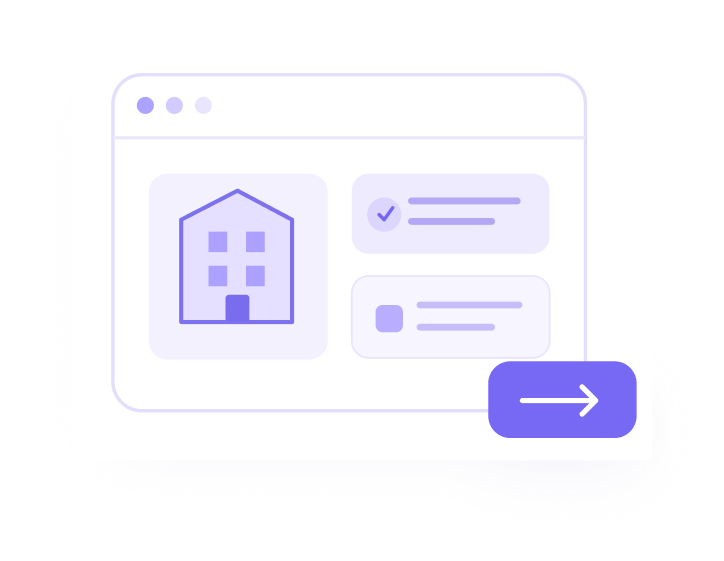
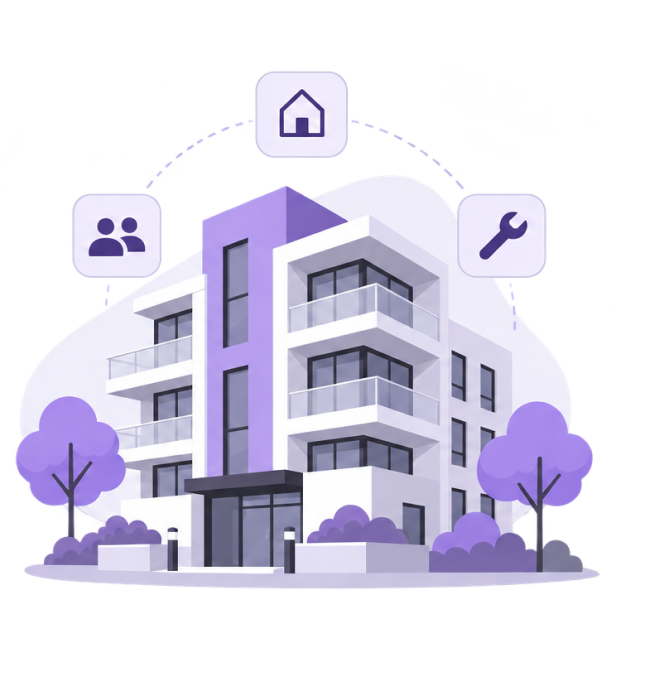
feat:home page section and product section

diff --git a/src/routes/home/-components/LandingFooter.tsx b/src/routes/home/-components/LandingFooter.tsx
@@ -1,34 +1,101 @@
+import { useState } from "react";
 import { Link } from "@tanstack/react-router";
+import { ArrowRight } from "lucide-react";
+import { toast } from "sonner";
 
 export default function LandingFooter() {
-  return (
-    <footer className="border-t border-slate-100 bg-white py-8 sm:py-10">
-      <div className="mx-auto flex max-w-7xl flex-col sm:flex-row items-center justify-between gap-4 px-4 sm:px-6 lg:px-8">
-        {/* Brand/Logo */}
-        <Link to="/" className="flex items-center gap-1">
-          <span className="text-xl font-black tracking-tight text-slate-900">
-            KINOVIA<span className="text-[#5958ed]">.</span>
-          </span>
-        </Link>
-        <p className="mx-auto text-base-content/60 font-semibold">
-          @copyright2026
-        </p>
+  const [email, setEmail] = useState("");
 
-        {/* Links */}
-        <nav className="flex items-center gap-6  sm: font-medium text-slate-600">
-          <a href="#" className="hover:text-slate-950 transition-colors">
-            Home
-          </a>
-          <a
-            href="/home/faq"
-            className="hover:text-slate-950 transition-colors"
-          >
-            FAQs
-          </a>
-          <a href="#support" className="hover:text-slate-950 transition-colors">
-            Contact Us
-          </a>
-        </nav>
+  const handleSubscribe = (e: React.FormEvent) => {
+    e.preventDefault();
+    if (!email.trim()) {
+      toast.error("Please enter your email address.");
+      return;
+    }
+    toast.info("Thanks for your interest — newsletter signup isn't connected yet.");
+    setEmail("");
+  };
+
+  return (
+    <footer className="border-t border-slate-100 bg-white py-12 sm:py-16">
+      <div className="mx-auto max-w-7xl px-4 sm:px-6 lg:px-8">
+        <div className="grid gap-10 lg:grid-cols-2 lg:gap-16">
+          {/* Brand / intro */}
+          <div>
+            <Link to="/" className="inline-flex items-center gap-1">
+              <span className="text-xl font-black tracking-tight text-slate-900">
+                <span className="text-[#5958ed]">K</span>INOVIA
+                <span className="text-[#5958ed]">.</span>
+              </span>
+            </Link>
+            <p className="mt-5 max-w-xs text-sm leading-relaxed text-slate-500">
+              Business solutions for better customer relationships, connected
+              operations, and digital commerce.
+            </p>
+          </div>
+
+          {/* Newsletter */}
+          <div>
+            <h2 className="text-xl font-semibold text-slate-900">
+              Stay in the loop.
+            </h2>
+            <p className="mt-2 text-sm text-slate-500">
+              Get occasional product news and updates from KINOVIA.
+            </p>
+            <form
+              onSubmit={handleSubscribe}
+              className="mt-5 flex flex-col gap-3 sm:flex-row"
+            >
+              <input
+                type="email"
+                required
+                value={email}
+                onChange={(e) => setEmail(e.target.value)}
+                placeholder="Enter your email address"
+                aria-label="Email address"
+                className="input input-bordered h-12 w-full flex-1 rounded-xl border-slate-200 bg-slate-50 px-4 text-sm text-slate-900 placeholder:text-slate-400 focus:border-[#5958ed] focus:bg-white"
+              />
+              <button
+                type="submit"
+                className="btn h-12 shrink-0 gap-2 rounded-xl border-0 bg-[#5958ed] px-6 text-sm font-semibold text-white shadow-sm shadow-[#5958ed]/25 hover:bg-[#4b4ad4]"
+              >
+                Subscribe
+                <ArrowRight className="size-4" />
+              </button>
+            </form>
+          </div>
+        </div>
+
+        <div className="my-10 border-t border-slate-200" />
+
+        <div className="flex flex-col gap-4 sm:flex-row sm:items-center sm:justify-between">
+          <nav className="flex flex-wrap items-center gap-6 text-sm font-medium text-slate-600">
+            <Link to="/" className="hover:text-slate-950 transition-colors">
+              Home
+            </Link>
+            <a
+              href="/home#solutions"
+              className="hover:text-slate-950 transition-colors"
+            >
+              Products
+            </a>
+            <Link
+              to="/home/faq"
+              className="hover:text-slate-950 transition-colors"
+            >
+              FAQ
+            </Link>
+            <Link
+              to="/home/contact-us"
+              className="hover:text-slate-950 transition-colors"
+            >
+              Contact Us
+            </Link>
+          </nav>
+          <p className="text-xs text-slate-400">
+            © 2026 KINOVIA. All rights reserved.
+          </p>
+        </div>
       </div>
     </footer>
   );

diff --git a/src/index.css b/src/index.css
@@ -1,4 +1,4 @@
-@import url("https://fonts.googleapis.com/css2?family=JetBrains+Mono:ital,wght@0,100..800;1,100..800&family=Open+Sans:ital,wght@0,300..800;1,300..800&family=Poppins:ital,wght@0,100;0,200;0,300;0,400;0,500;0,600;0,700;0,800;0,900;1,100;1,200;1,300;1,400;1,500;1,600;1,700;1,800;1,900&display=swap");
+@import url("https://fonts.googleapis.com/css2?family=Inter:wght@100..900&family=JetBrains+Mono:ital,wght@0,100..800;1,100..800&family=Open+Sans:ital,wght@0,300..800;1,300..800&family=Poppins:ital,wght@0,100;0,200;0,300;0,400;0,500;0,600;0,700;0,800;0,900;1,100;1,200;1,300;1,400;1,500;1,600;1,700;1,800;1,900&display=swap");
 @import "tailwindcss";
 
 @font-face {
@@ -18,8 +18,8 @@
 }
 
 @theme {
-  --font-display: "Degular", "Deguland", "Poppins", sans-serif;
-  --font-sans: "Degular", "Deguland", "Poppins", sans-serif;
+  --font-display: "Inter", "Degular", "Deguland", "Poppins", sans-serif;
+  --font-sans: "Inter", "Degular", "Deguland", "Poppins", sans-serif;
 }
 @plugin "daisyui" {
   themes: all;
@@ -27,13 +27,13 @@
 
 :root {
   --font-size: 16px;
-  --font-display: "Degular", "Deguland", "Poppins", sans-serif;
-  --font-sans: "Degular", "Deguland", "Poppins", sans-serif;
+  --font-display: "Inter", "Degular", "Deguland", "Poppins", sans-serif;
+  --font-sans: "Inter", "Degular", "Deguland", "Poppins", sans-serif;
 }
 html,
 body {
   font-size: var(--font-size);
-  font-family: "Degular", "Deguland", "Poppins", sans-serif;
+  font-family: "Inter", "Degular", "Deguland", "Poppins", sans-serif;
 }
 * {
   @apply outline-none;

diff --git a/src/routes/home/products.index.tsx b/src/routes/home/products.index.tsx
@@ -68,15 +68,16 @@ function RouteComponent() {
               </div>
 
               {/* Preview */}
-              <div className="lg:col-span-7">
+              <div className="lg:col-span-7  flex flex-col">
                 <p className="mb-3 text-[11px] font-semibold uppercase tracking-[0.18em] text-white/80">
                   Inside Kinovia / CRM
                 </p>
-                <div className="overflow-hidden rounded-2xl border border-white/10">
+
+                <div>
                   <img
                     src="/products_page/hero_img.png"
                     alt="Kinovia CRM workspace on a tablet"
-                    className="h-auto w-full"
+                    className="w-full rounded-2xl ring ring-white/20 "
                     loading="eager"
                   />
                 </div>
